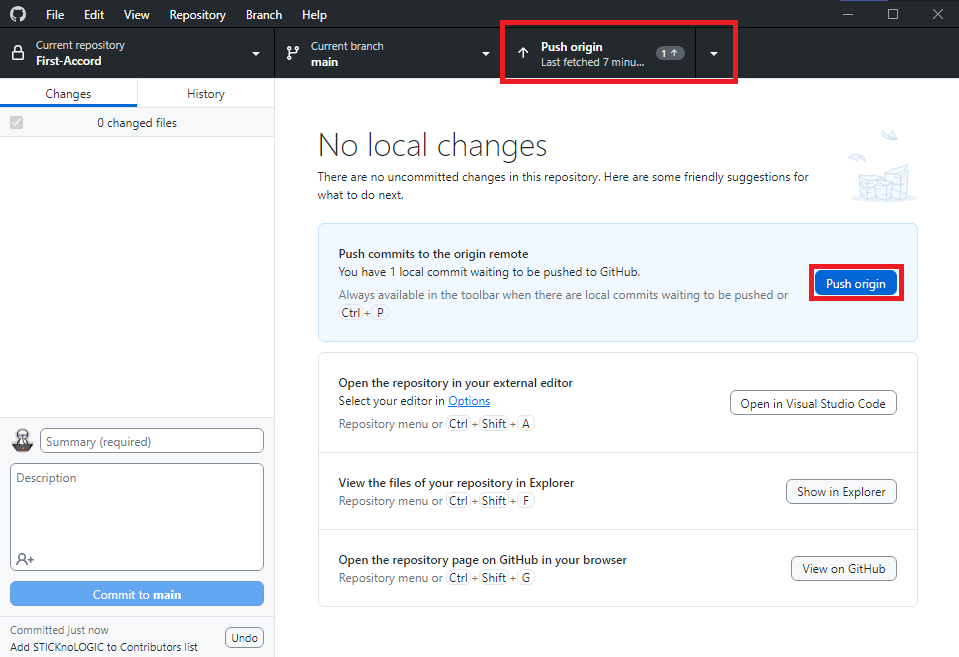
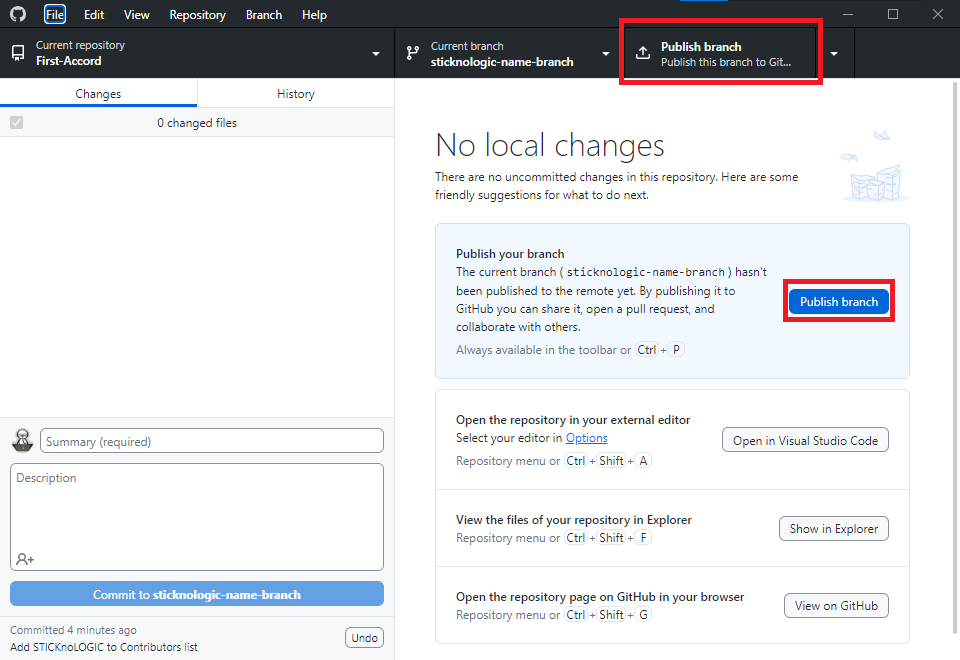
Update GitHub Desktop Tutorial

diff --git a/guide/github-desktop.md b/guide/github-desktop.md
@@ -30,6 +30,18 @@ After you click on "Open GitHubDesktop.exe" the contents will be downloaded to y
 
 Now you have copied the contents of the First Accord repository in github to your computer.
 
+## Create a Branch
+
+Now, create a new branch by clicking on the "Current branch" icon at the top and then click on "New branch".
+
+<img src="/assets/desktop/app-new-branch.png" alt="create branch" />
+
+Name your branch . For example, "sticknologic-name-branch".
+
+<img src="/assets/desktop/app-name-branch.png" alt="name branch" />
+
+Then click on `Create branch` button`.
+
 ## Make necessary changes and commit those changes
 
  Go to the `contributors` Folder/Directory and copy the content of `__TEMPLATES__.json` (the template consists of essential/required parameters in JSON structure. To know more, [visit JSON Structure](json-structure))
@@ -74,7 +86,7 @@ Now submit the pull request.
 
 <img src="/assets/submit-pull-request.png" alt="submit pull request" />
 
-I'll be merging all of your modifications into the project's main branch shortly. Once the changes have been merged, you will receive an email notification. 
+I'll be merging all of your modifications into the project's main branch shortly. Once the changes have been merged, you will receive an email notification.
 
 ## Where to go from here?
 
@@ -89,7 +101,7 @@ Let's help you get started with contributing to other projects. I recommend begi
 
 ## Tutorials Using Other Tools
 | <img alt="cli" src="https://raw.githubusercontent.com/felixse/FluentTerminal/refs/heads/master/Icons/Icon_no_margin.png" width="100"> | <img alt="VS Code" src="https://upload.wikimedia.org/wikipedia/commons/1/1c/Visual_Studio_Code_1.35_icon.png" width=100> | <i class="fa-solid fab fa-chrome fa-6x" style="color:lightblue"></i> |
-| :------------------: | :------------------: | :------------------: | 
+| :------------------: | :------------------: | :------------------: |
 | [Command Line Interface](guide/github-cli) | [Visual Studio Code](guide/github-vscode) | [Browser](guide/github-browser)
 
 
